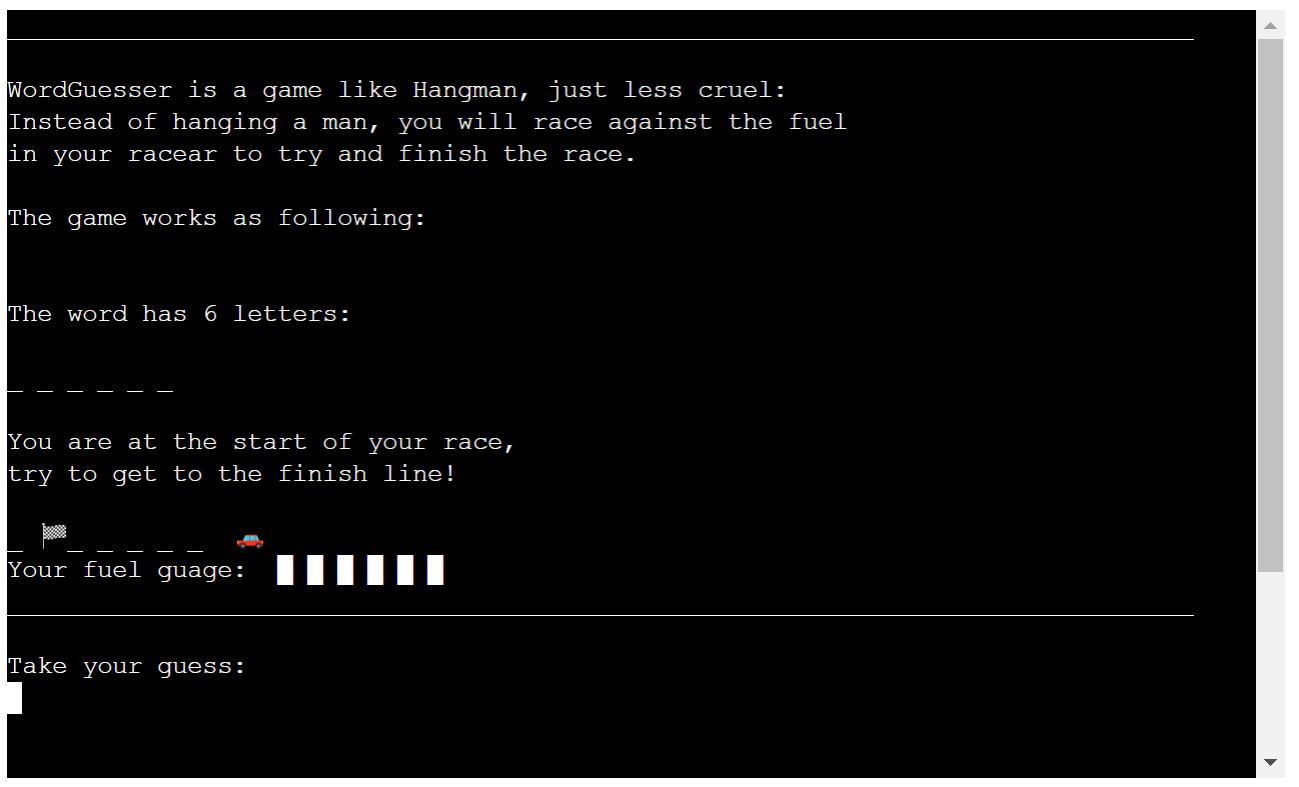
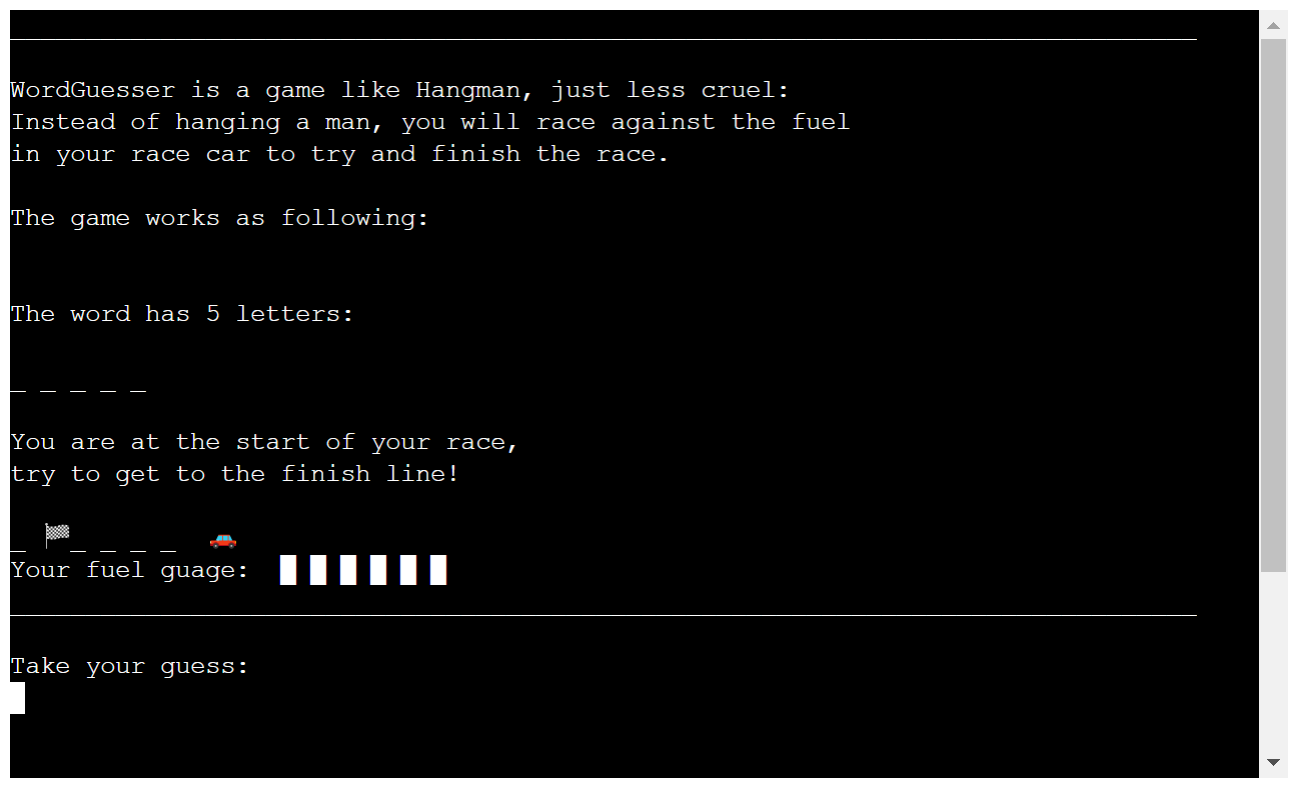
readme: spellchecking and updating more pictures

diff --git a/run.py b/run.py
@@ -186,7 +186,7 @@ def run_game(word, name):
     game or quit
     """
     print_ascii(1)
-    pause(5)
+    pause(4)
     cls()
     tries = MAX_TRIES
     current_word = word

diff --git a/README.md b/README.md
@@ -39,7 +39,7 @@ After the game is finished, either by winning or loosing, the user will be asked
 
 - The terminal will clear and provide the user with game rules, which are printed out with a time delay.
 
-- The rules are too long for the single page, so the terminal will scroll.
+- The rules are too long for the single page, so the terminal will scroll (further info in the "bug" section).
 
 ![rules-msg](readme/rules_top.PNG)
 ![rules](readme/rules.PNG)
@@ -48,7 +48,7 @@ After the game is finished, either by winning or loosing, the user will be asked
 
 ![start-game](readme/start_msg.PNG)
 
-- This message will be cleared after 5 seconds, when the user will be shown the first "real" game page:
+- This message will be cleared after 4 seconds, when the user will be shown the first "real" game page:
 
 ![main-game](readme/main_game.PNG)
 
@@ -67,7 +67,7 @@ Correct input (the car gets a bit closer to the finish):
 
 - Every input will be validated and only single letters that have not been guessed will be returned. If the user enters numbers, special symbols or multiple characters, the game will display a corresponding error message and ask again for a new input. 
 
-- If the input was invalid, the terminal will not be cleared with the goal of allowing the user to scroll back up and see the current game progress (This has been added to unfixed bugs since it can be seen as such as well).
+- If the input was invalid, the terminal will not be cleared with the goal of allowing the user to scroll back up and see the current game progress (this has been added to unfixed bugs since it can be seen as such as well).
 
 ![validation-letter](readme/validation_msg.PNG)
 
@@ -128,11 +128,11 @@ Solved Bugs
 
 Unsolved Bugs
 
-- The user is able to spam the terminal with invalid inputs without the terminal ever clearing
+- The user is able to spam the terminal with invalid inputs without the terminal ever clearing.
 
-- Tha game has pauses included, but will take any input at any given time - this results in the possibility of e.g. pressing the "enter" key twice after giving a username, which will result in immediate "continuing" without being able to finish reading the rules.
+- The game has pauses included, but will take any input at any given time - this results in the possibility of e.g. pressing the "enter" key twice after giving a username, which will result in immediate "continuing" without being able to finish reading the rules.
 
-- Even if the "clear terminal" function is called at the end of the rules, in my last tryout, the top message was always displayed if the user scrolls up. Without scrolling, the user does not get to see the message.
+- Even if the "clear terminal" function is called at the end of the rules, in my last tryout, the top message was always displayed in case the user scrolls up. Without scrolling, the user does not get to see the message.
 
 ![bug](readme/bug.PNG)
 
